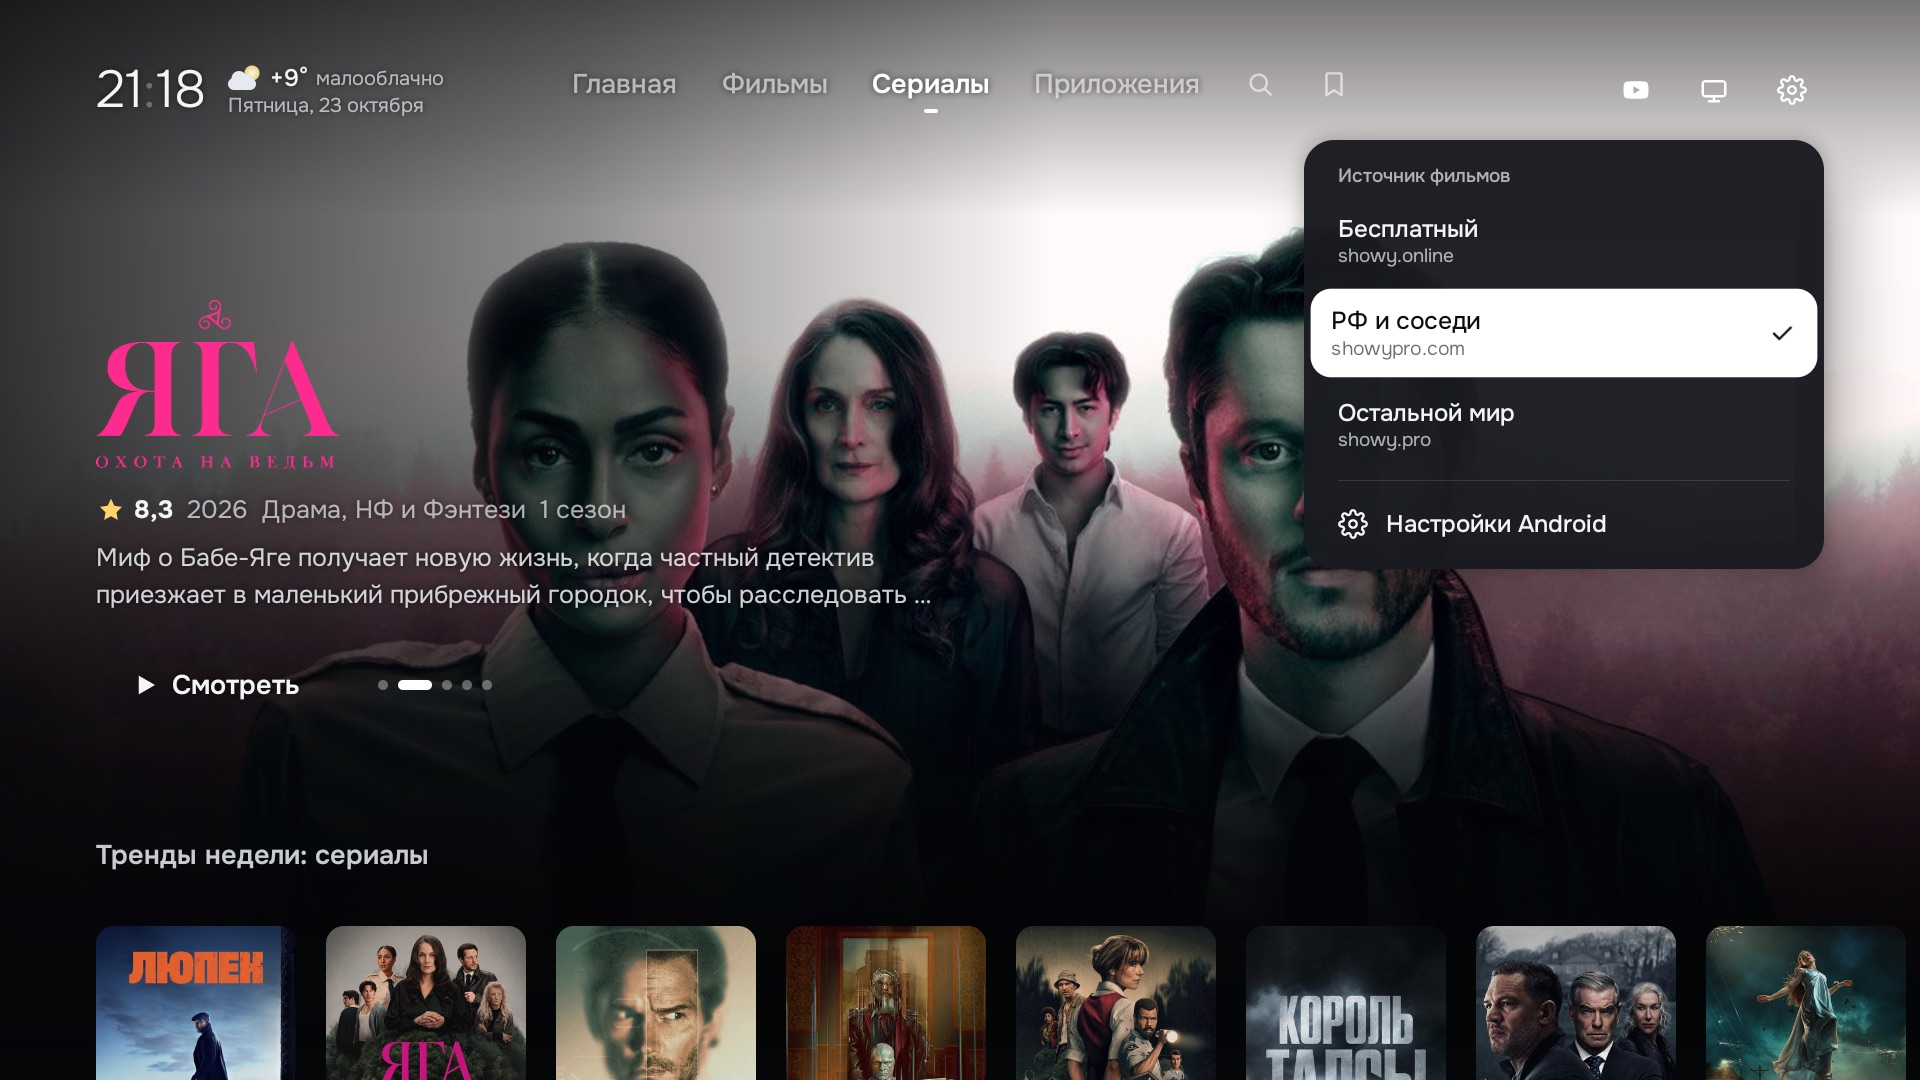
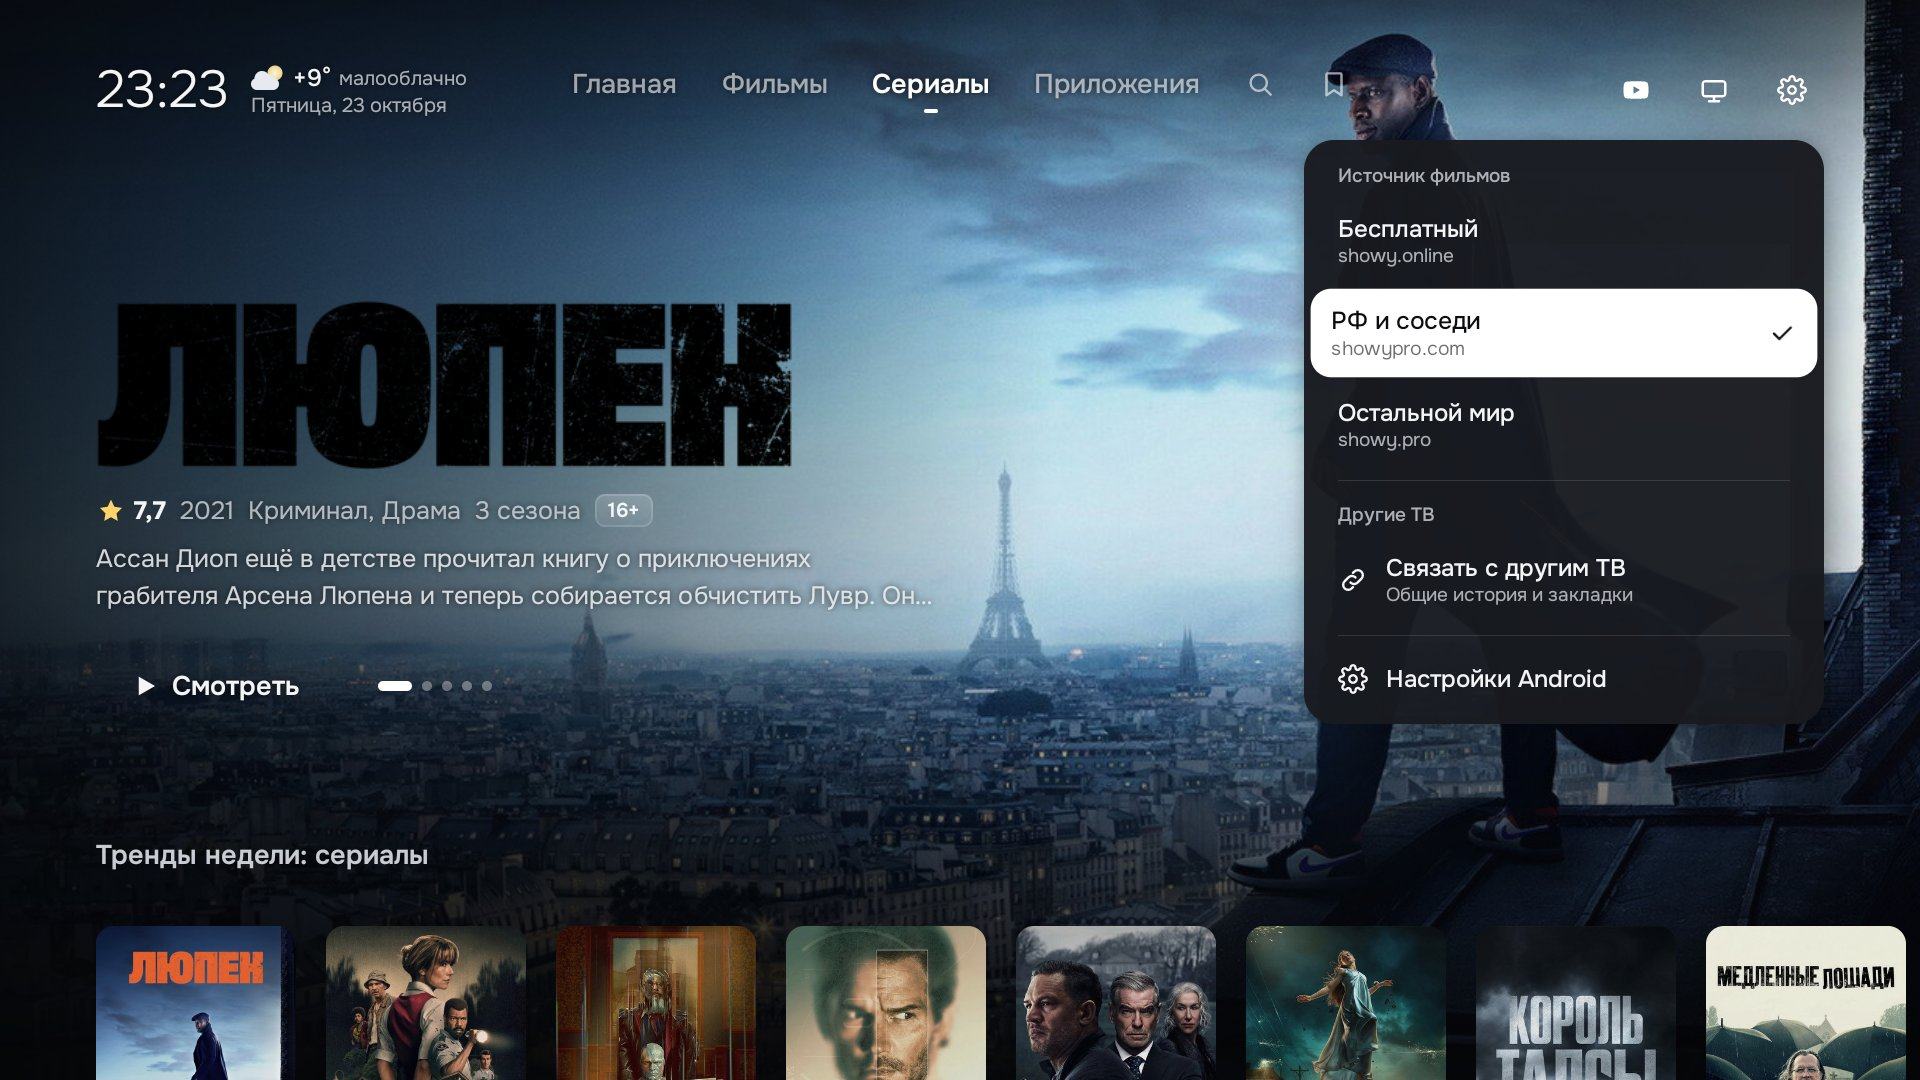
docs: screenshots of 1.6
The film's screen with «Похожее», the gear menu with linked TVs, and two
new ones: the long-press menu on an episode and an app being moved.

diff --git a/README.md b/README.md
@@ -11,8 +11,9 @@
 | | |
 |---|---|
 | ![Ряд подборки](docs/screenshots/rows.jpg)<br>Ряд подборки: блок сверху показывает фильм в фокусе | ![Жанры](docs/screenshots/genres.jpg)<br>Жанры на вкладках «Фильмы» и «Сериалы» |
-| ![Экран «Смотреть»](docs/screenshots/watch.jpg)<br>«Смотреть»: источник, сезон, озвучка, серии | ![Выбор источника](docs/screenshots/sources.jpg)<br>Источники Showy с лучшим качеством |
-| ![Поиск](docs/screenshots/search.jpg)<br>Поиск: клавиатура РУ/EN и голос | ![Настройки](docs/screenshots/settings.jpg)<br>Шестерёнка: сервер Showy и настройки Android |
+| ![Экран «Смотреть»](docs/screenshots/watch.jpg)<br>«Смотреть»: источник, сезон, озвучка, серии, ниже — «Похожее» | ![Выбор источника](docs/screenshots/sources.jpg)<br>Источники Showy с лучшим качеством |
+| ![Поиск](docs/screenshots/search.jpg)<br>Поиск: клавиатура РУ/EN и голос | ![Настройки](docs/screenshots/settings.jpg)<br>Шестерёнка: сервер Showy, связь с другими ТВ, настройки Android |
+| ![Меню долгого нажатия](docs/screenshots/menu.jpg)<br>Долгое нажатие OK на серии: отметить просмотренной | ![Перемещение приложения](docs/screenshots/apps.jpg)<br>Долгое нажатие на приложении: переместить или скрыть |
 
 ## Что умеет
 
